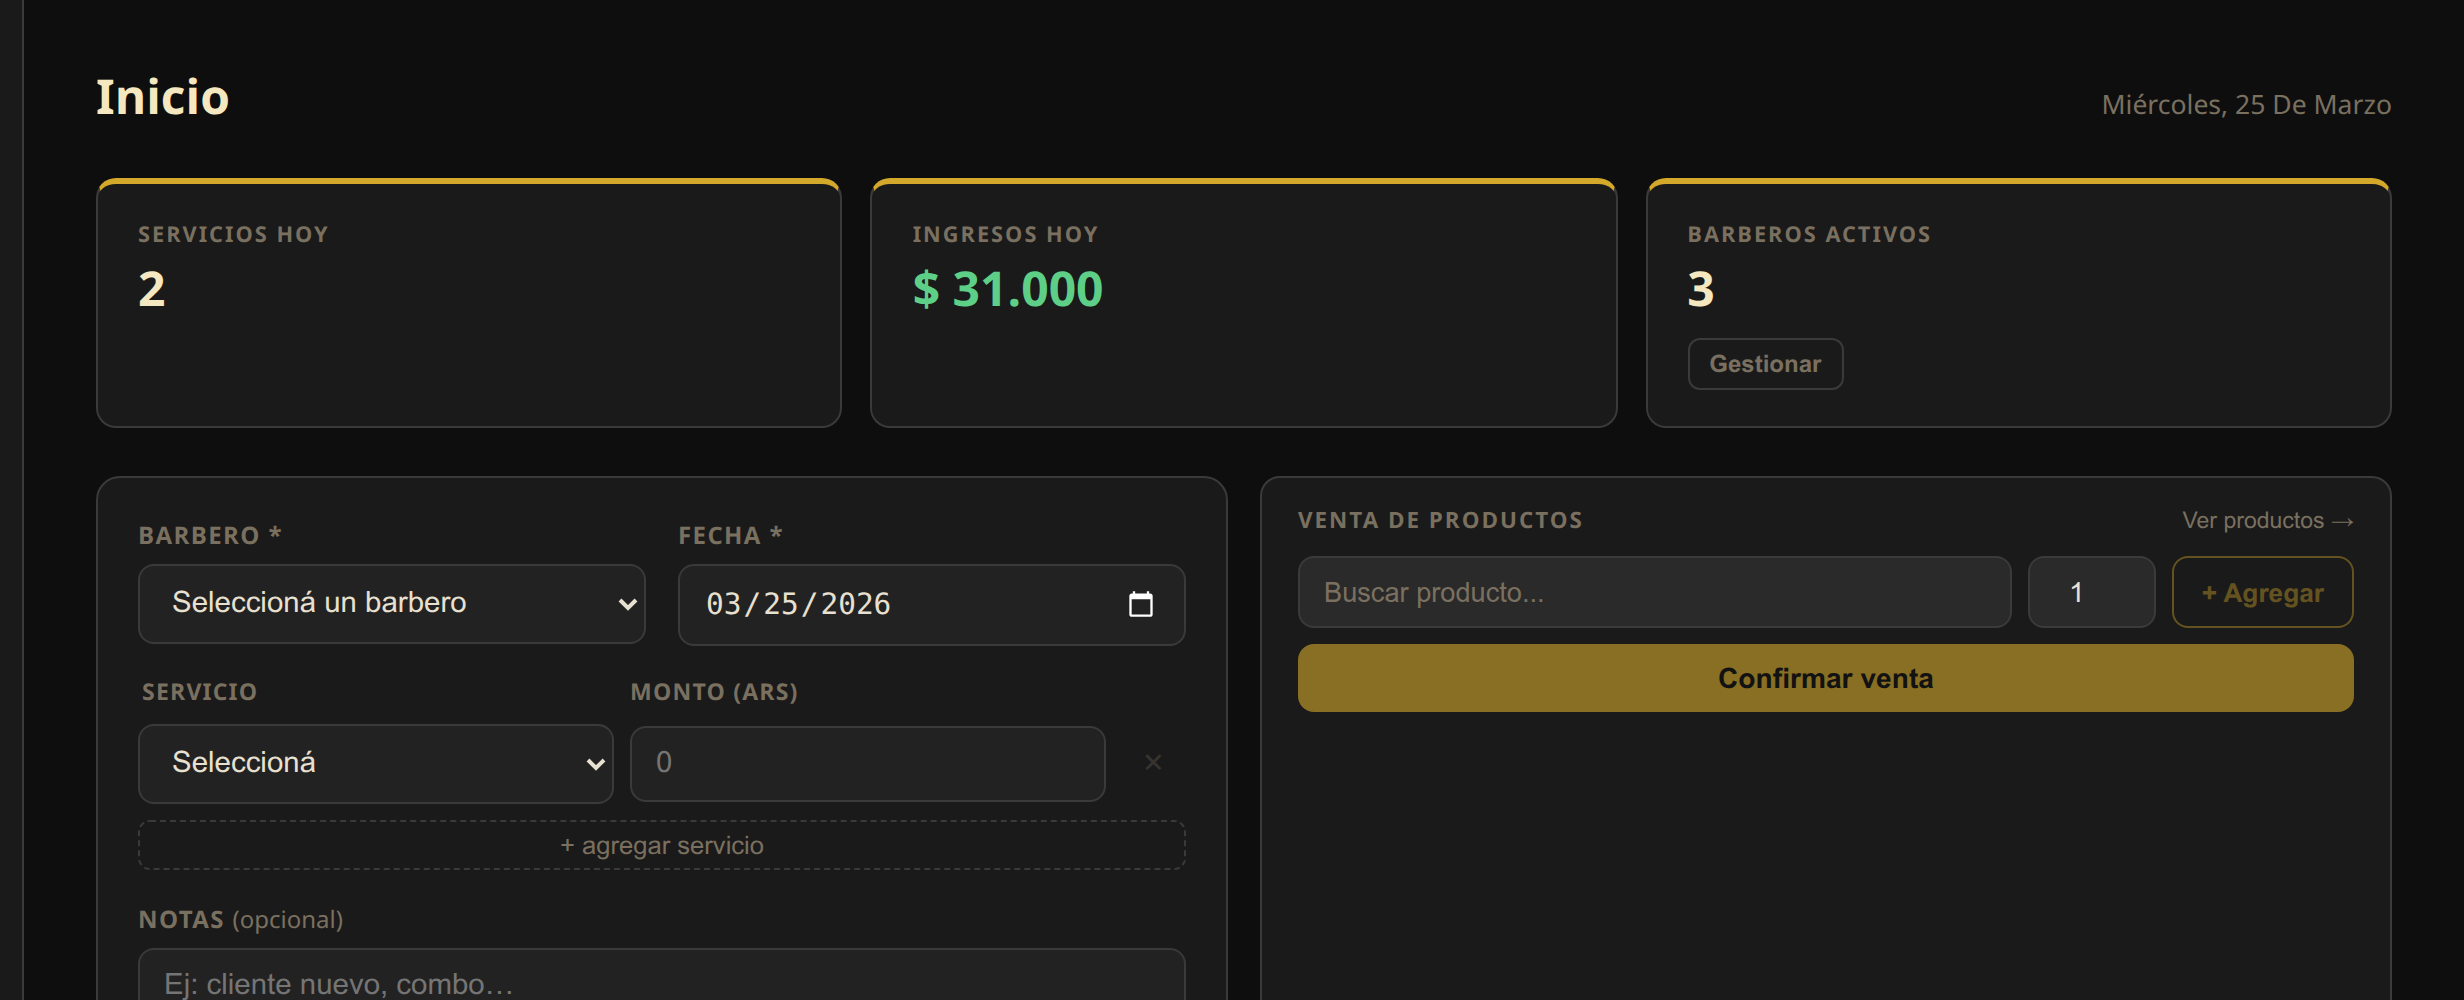
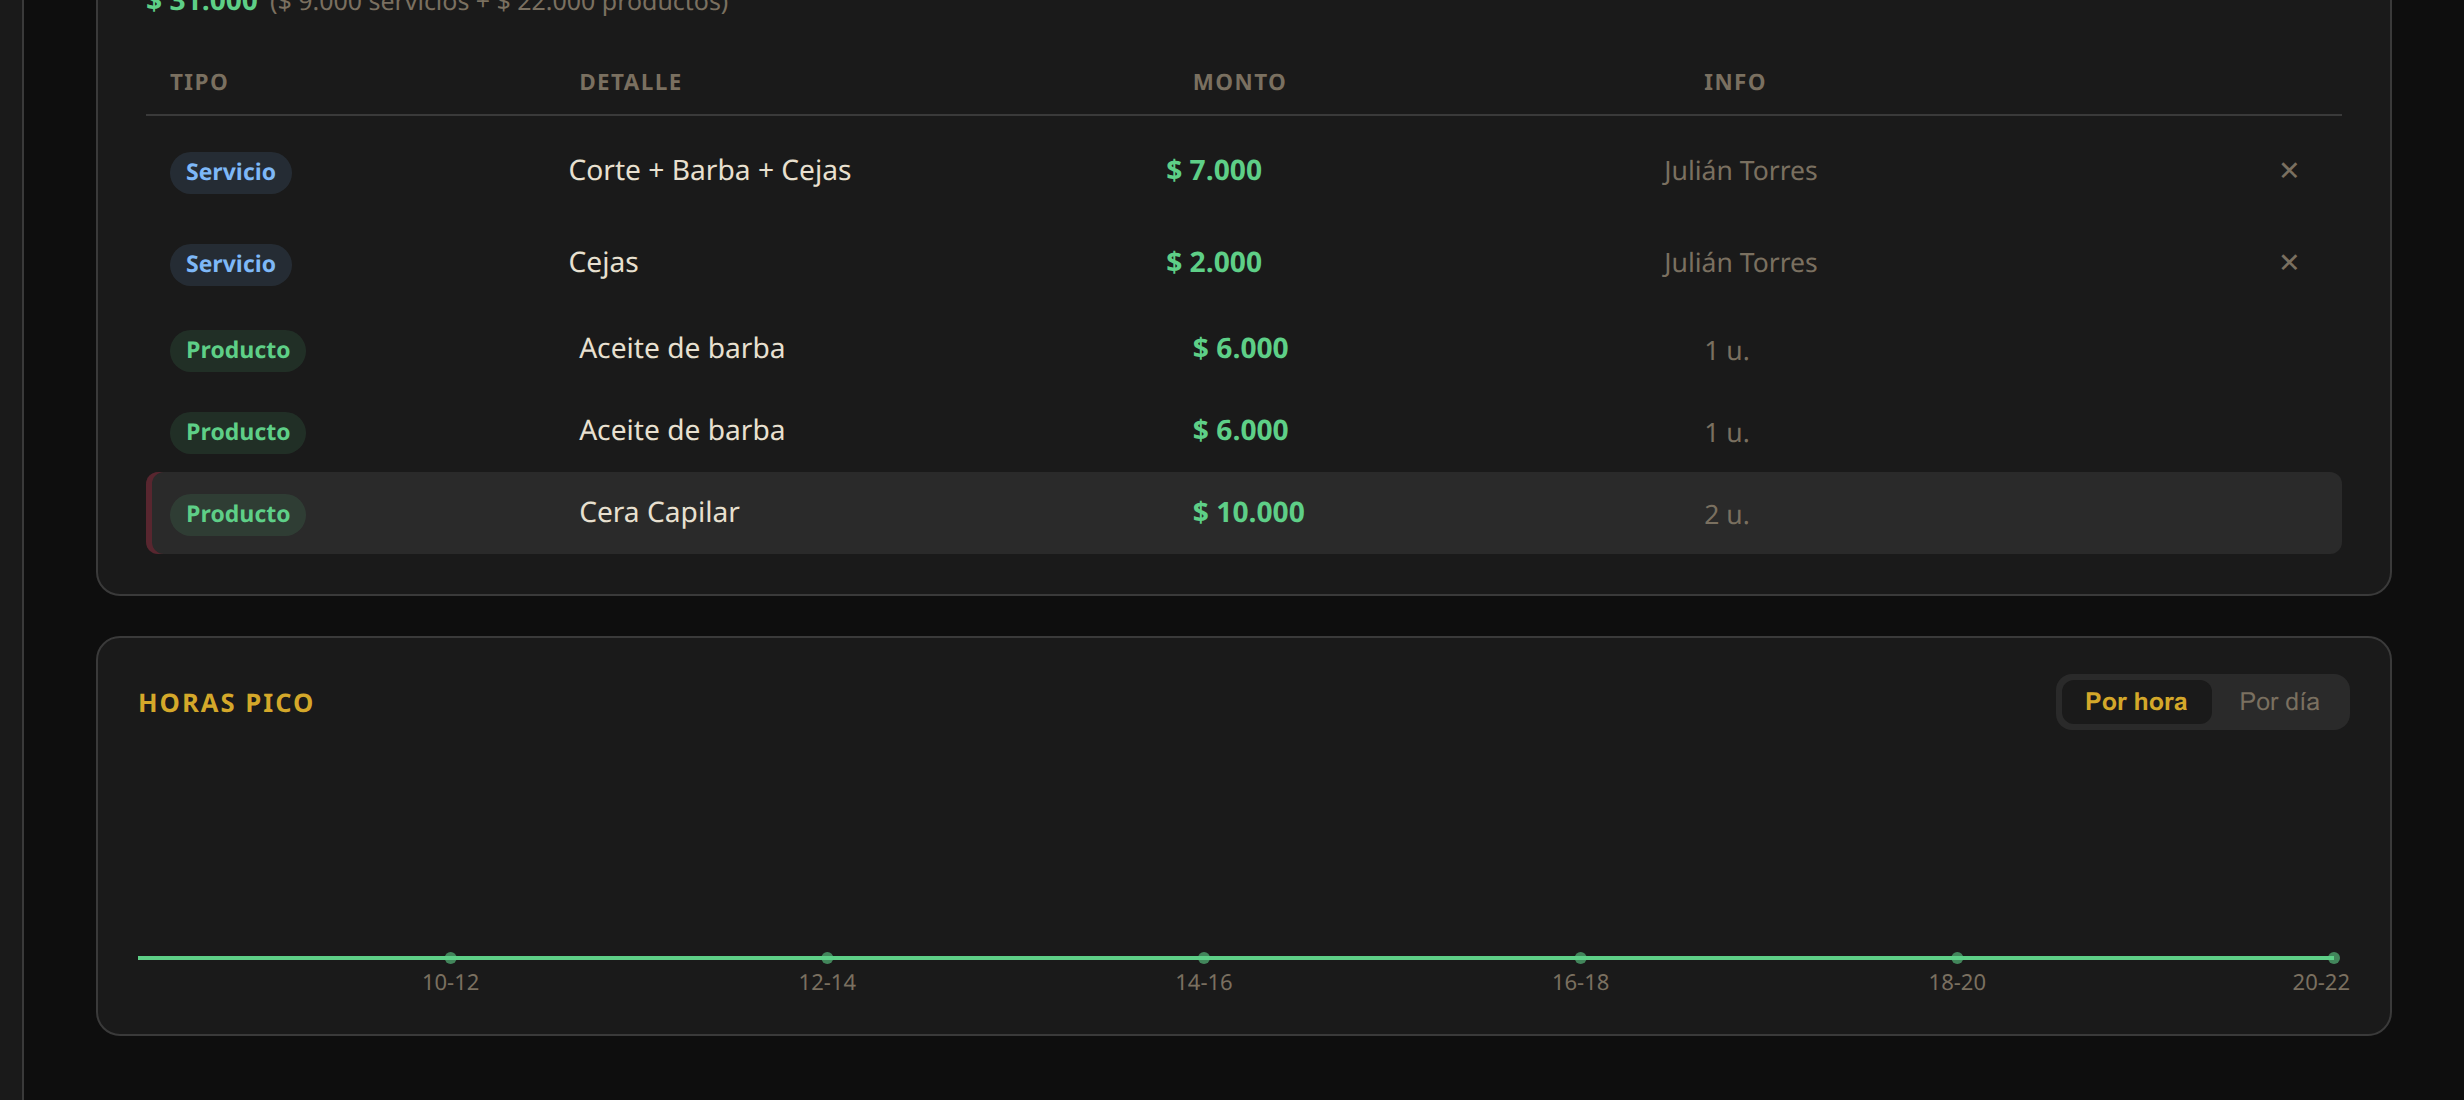
fix: carousel copy + inicio screenshot shows peak chart + remove lightbox
- Fix barberos slide: "Configurá tu equipo y sus comisiones" (not "rendimiento")
- Fix inicio slide: scroll to show Horas Pico chart in screenshot
- Remove lightbox click functionality as requested

diff --git a/src/components/landing/MockupCarousel.tsx b/src/components/landing/MockupCarousel.tsx
@@ -1,6 +1,6 @@
 'use client'
 
-import { useState, useEffect, useRef, useCallback } from 'react'
+import { useState, useEffect, useRef } from 'react'
 import Image from 'next/image'
 import Link from 'next/link'
 import styles from './mockupCarousel.module.css'
@@ -17,9 +17,9 @@ type Slide = {
 const SLIDES: Slide[] = [
   {
     image: '/mockups/inicio.png',
-    tag: 'Para el dueño',
-    titleHtml: 'Potenciá tu <em>barbería</em><br/>con nuestra plataforma.',
-    description: 'Gestioná ventas, barberos y servicios en un solo lugar. Aumentá tus ingresos con datos reales.',
+    tag: 'Inicio',
+    titleHtml: 'Registrá ventas y controlá<br/>tu <em>día en tiempo real</em>.',
+    description: 'Ves los ingresos del día, las ventas de cada barbero y las horas de mayor movimiento — todo desde la pantalla principal.',
     cta: 'Comenzá ahora',
     ctaHref: '/auth/register',
   },
@@ -27,23 +27,23 @@ const SLIDES: Slide[] = [
     image: '/mockups/finanzas.png',
     tag: 'Finanzas',
     titleHtml: 'Controlá las <em>finanzas</em><br/>de tu barbería.',
-    description: 'Obtené una visión clara de ingresos, gastos y comisiones para hacer crecer tu negocio.',
+    description: 'Ingresos, gastos, comisiones y ganancia neta de cada mes. Todo calculado automáticamente, sin fórmulas.',
     cta: 'Probá gratis',
     ctaHref: '/auth/register',
   },
   {
     image: '/mockups/barberos.png',
-    tag: 'Barberos',
-    titleHtml: 'Medí el <em>rendimiento</em><br/>de cada barbero.',
-    description: 'Monitoréa el desempeño y las comisiones de tu equipo de manera precisa y sencilla.',
-    cta: 'Optimizá tu equipo',
+    tag: 'Equipo',
+    titleHtml: 'Configurá tu <em>equipo</em><br/>y sus comisiones.',
+    description: 'Agregá barberos, establecé sus porcentajes y gestioná los servicios que ofrece tu barbería — sin complicaciones.',
+    cta: 'Administrá tu equipo',
     ctaHref: '/auth/register',
   },
   {
     image: '/mockups/ventas.png',
     tag: 'Ventas',
     titleHtml: 'Aumentá las <em>ventas</em><br/>de tu barbería.',
-    description: 'Registrá servicios y productos en segundos. Controlá cada ingreso desde el celular.',
+    description: 'Registrá servicios y productos en segundos. Controlá cada ingreso y analizá tendencias desde el celular.',
     cta: 'Empezá a vender más',
     ctaHref: '/auth/register',
   },
@@ -53,7 +53,6 @@ const INTERVAL_MS = 8000
 
 export default function MockupCarousel() {
   const [current, setCurrent] = useState(0)
-  const [lightbox, setLightbox] = useState<string | null>(null)
   const timerRef = useRef<ReturnType<typeof setInterval> | null>(null)
 
   function start() {
@@ -73,106 +72,66 @@ export default function MockupCarousel() {
     return () => { if (timerRef.current) clearInterval(timerRef.current) }
   }, [])
 
-  const closeLightbox = useCallback(() => setLightbox(null), [])
-
-  useEffect(() => {
-    if (!lightbox) return
-    const onKey = (e: KeyboardEvent) => { if (e.key === 'Escape') closeLightbox() }
-    window.addEventListener('keydown', onKey)
-    return () => window.removeEventListener('keydown', onKey)
-  }, [lightbox, closeLightbox])
-
   return (
-    <>
-      <section className={styles.section}>
-        <div className={styles.viewport}>
-          <div
-            className={styles.track}
-            style={{ transform: `translateX(-${current * 100}%)` }}
-          >
-            {SLIDES.map((s, i) => (
-              <div key={i} className={styles.slide}>
+    <section className={styles.section}>
+      <div className={styles.viewport}>
+        <div
+          className={styles.track}
+          style={{ transform: `translateX(-${current * 100}%)` }}
+        >
+          {SLIDES.map((s, i) => (
+            <div key={i} className={styles.slide}>
 
-                {/* Copy */}
-                <div className={styles.copy}>
-                  <span className={styles.tag}>{s.tag}</span>
-                  <h2
-                    className={styles.title}
-                    dangerouslySetInnerHTML={{ __html: s.titleHtml }}
-                  />
-                  <p className={styles.desc}>{s.description}</p>
-                  <Link href={s.ctaHref} className={styles.cta}>
-                    {s.cta}
-                  </Link>
-                </div>
+              {/* Copy */}
+              <div className={styles.copy}>
+                <span className={styles.tag}>{s.tag}</span>
+                <h2
+                  className={styles.title}
+                  dangerouslySetInnerHTML={{ __html: s.titleHtml }}
+                />
+                <p className={styles.desc}>{s.description}</p>
+                <Link href={s.ctaHref} className={styles.cta}>
+                  {s.cta}
+                </Link>
+              </div>
 
-                {/* Device frame */}
-                <div className={styles.deviceWrap}>
-                  <div className={styles.device}>
-                    <div className={styles.deviceBar}>
-                      <div className={`${styles.dot} ${styles.dotRed}`} />
-                      <div className={`${styles.dot} ${styles.dotYellow}`} />
-                      <div className={`${styles.dot} ${styles.dotGreen}`} />
-                    </div>
-                    <button
-                      className={styles.screen}
-                      onClick={() => setLightbox(s.image)}
-                      aria-label="Ver pantalla completa"
-                    >
-                      <Image
-                        src={s.image}
-                        alt={s.tag}
-                        fill
-                        sizes="(max-width: 768px) 100vw, 55vw"
-                        className={styles.img}
-                        priority={i === 0}
-                      />
-                      <span className={styles.zoomHint}>
-                        <svg width="16" height="16" viewBox="0 0 24 24" fill="none" stroke="currentColor" strokeWidth="2" strokeLinecap="round" strokeLinejoin="round">
-                          <circle cx="11" cy="11" r="8"/><line x1="21" y1="21" x2="16.65" y2="16.65"/>
-                          <line x1="11" y1="8" x2="11" y2="14"/><line x1="8" y1="11" x2="14" y2="11"/>
-                        </svg>
-                        Ver más
-                      </span>
-                    </button>
+              {/* Device frame */}
+              <div className={styles.deviceWrap}>
+                <div className={styles.device}>
+                  <div className={styles.deviceBar}>
+                    <div className={`${styles.dot} ${styles.dotRed}`} />
+                    <div className={`${styles.dot} ${styles.dotYellow}`} />
+                    <div className={`${styles.dot} ${styles.dotGreen}`} />
+                  </div>
+                  <div className={styles.screen}>
+                    <Image
+                      src={s.image}
+                      alt={s.tag}
+                      fill
+                      sizes="(max-width: 768px) 100vw, 55vw"
+                      className={styles.img}
+                      priority={i === 0}
+                    />
                   </div>
                 </div>
-
               </div>
-            ))}
-          </div>
-        </div>
 
-        {/* Dots */}
-        <div className={styles.dots}>
-          {SLIDES.map((_, i) => (
-            <button
-              key={i}
-              className={`${styles.dotBtn} ${i === current ? styles.dotBtnActive : ''}`}
-              onClick={() => resetTo(i)}
-              aria-label={`Slide ${i + 1}`}
-            />
+            </div>
           ))}
         </div>
-      </section>
+      </div>
 
-      {/* Lightbox */}
-      {lightbox && (
-        <div className={styles.lbOverlay} onClick={closeLightbox}>
-          <div className={styles.lbContent} onClick={e => e.stopPropagation()}>
-            <button className={styles.lbClose} onClick={closeLightbox} aria-label="Cerrar">✕</button>
-            <div className={styles.lbImgWrap}>
-              <Image
-                src={lightbox}
-                alt="Vista completa"
-                fill
-                sizes="90vw"
-                className={styles.lbImg}
-              />
-            </div>
-          </div>
-        </div>
-      )}
-    </>
+      {/* Dots */}
+      <div className={styles.dots}>
+        {SLIDES.map((_, i) => (
+          <button
+            key={i}
+            className={`${styles.dotBtn} ${i === current ? styles.dotBtnActive : ''}`}
+            onClick={() => resetTo(i)}
+            aria-label={`Slide ${i + 1}`}
+          />
+        ))}
+      </div>
+    </section>
   )
 }

diff --git a/src/components/landing/mockupCarousel.module.css b/src/components/landing/mockupCarousel.module.css
@@ -136,10 +136,6 @@
   aspect-ratio: 16 / 9;
   background: var(--bg);
   overflow: hidden;
-  display: block;
-  border: none;
-  padding: 0;
-  cursor: zoom-in;
 }
 
 .img {
@@ -170,89 +166,6 @@
   background: var(--gold);
   width: 24px;
   border-radius: 4px;
-}
-
-/* ── ZOOM HINT ── */
-.zoomHint {
-  position: absolute;
-  bottom: 10px;
-  right: 10px;
-  background: rgba(0,0,0,.65);
-  color: #fff;
-  font-size: .72rem;
-  font-weight: 600;
-  padding: 5px 10px;
-  border-radius: 20px;
-  display: flex;
-  align-items: center;
-  gap: 5px;
-  opacity: 0;
-  transition: opacity .2s;
-  pointer-events: none;
-}
-
-.screen:hover .zoomHint {
-  opacity: 1;
-}
-
-/* ── LIGHTBOX ── */
-.lbOverlay {
-  position: fixed;
-  inset: 0;
-  background: rgba(0,0,0,.85);
-  z-index: 1000;
-  display: flex;
-  align-items: center;
-  justify-content: center;
-  padding: 24px;
-  backdrop-filter: blur(6px);
-  animation: lbIn .2s ease;
-}
-
-@keyframes lbIn {
-  from { opacity: 0 }
-  to   { opacity: 1 }
-}
-
-.lbContent {
-  position: relative;
-  width: min(90vw, 1100px);
-  border-radius: 12px;
-  overflow: hidden;
-  border: 1px solid rgba(0,200,240,.3);
-  box-shadow: 0 0 60px rgba(0,200,240,.15);
-}
-
-.lbClose {
-  position: absolute;
-  top: 12px;
-  right: 12px;
-  z-index: 10;
-  background: rgba(0,0,0,.7);
-  border: none;
-  color: #fff;
-  width: 32px;
-  height: 32px;
-  border-radius: 50%;
-  font-size: .85rem;
-  cursor: pointer;
-  display: flex;
-  align-items: center;
-  justify-content: center;
-  transition: background .15s;
-}
-
-.lbClose:hover { background: rgba(0,0,0,.9); }
-
-.lbImgWrap {
-  position: relative;
-  width: 100%;
-  aspect-ratio: 16 / 6;
-}
-
-.lbImg {
-  object-fit: cover;
-  object-position: top left;
 }
 
 /* ── RESPONSIVE ── */
